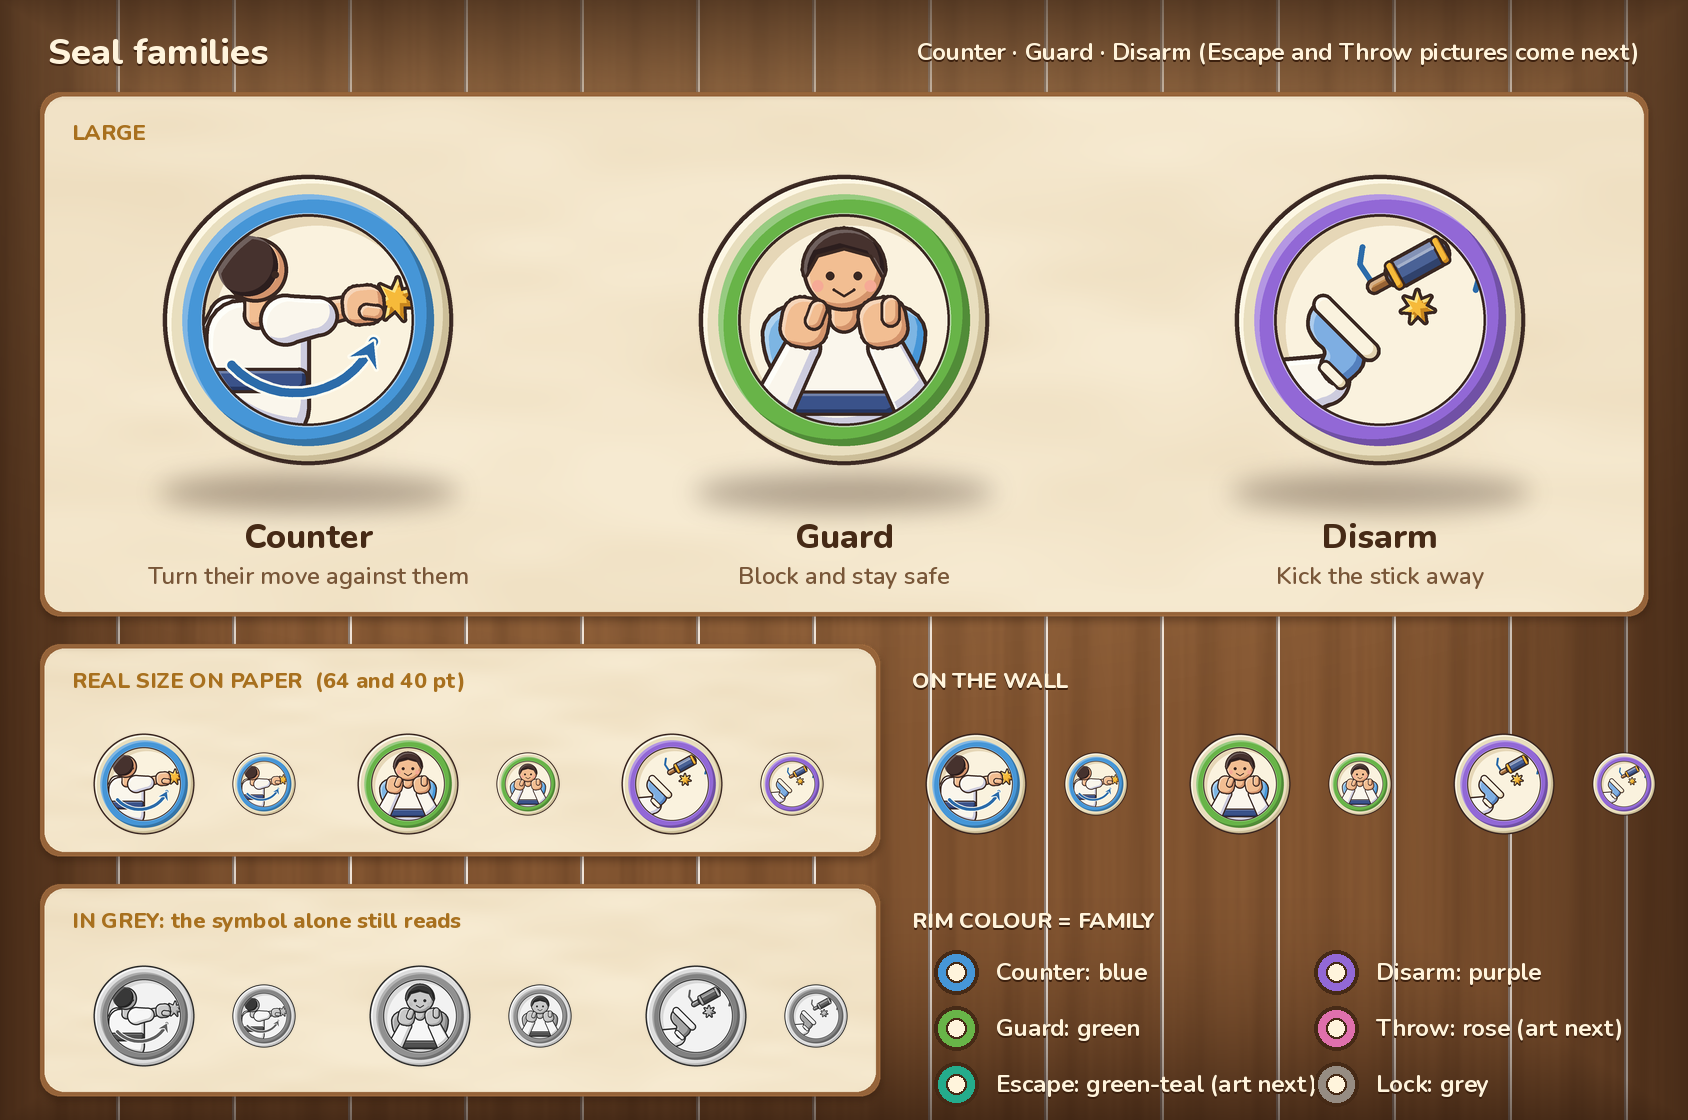
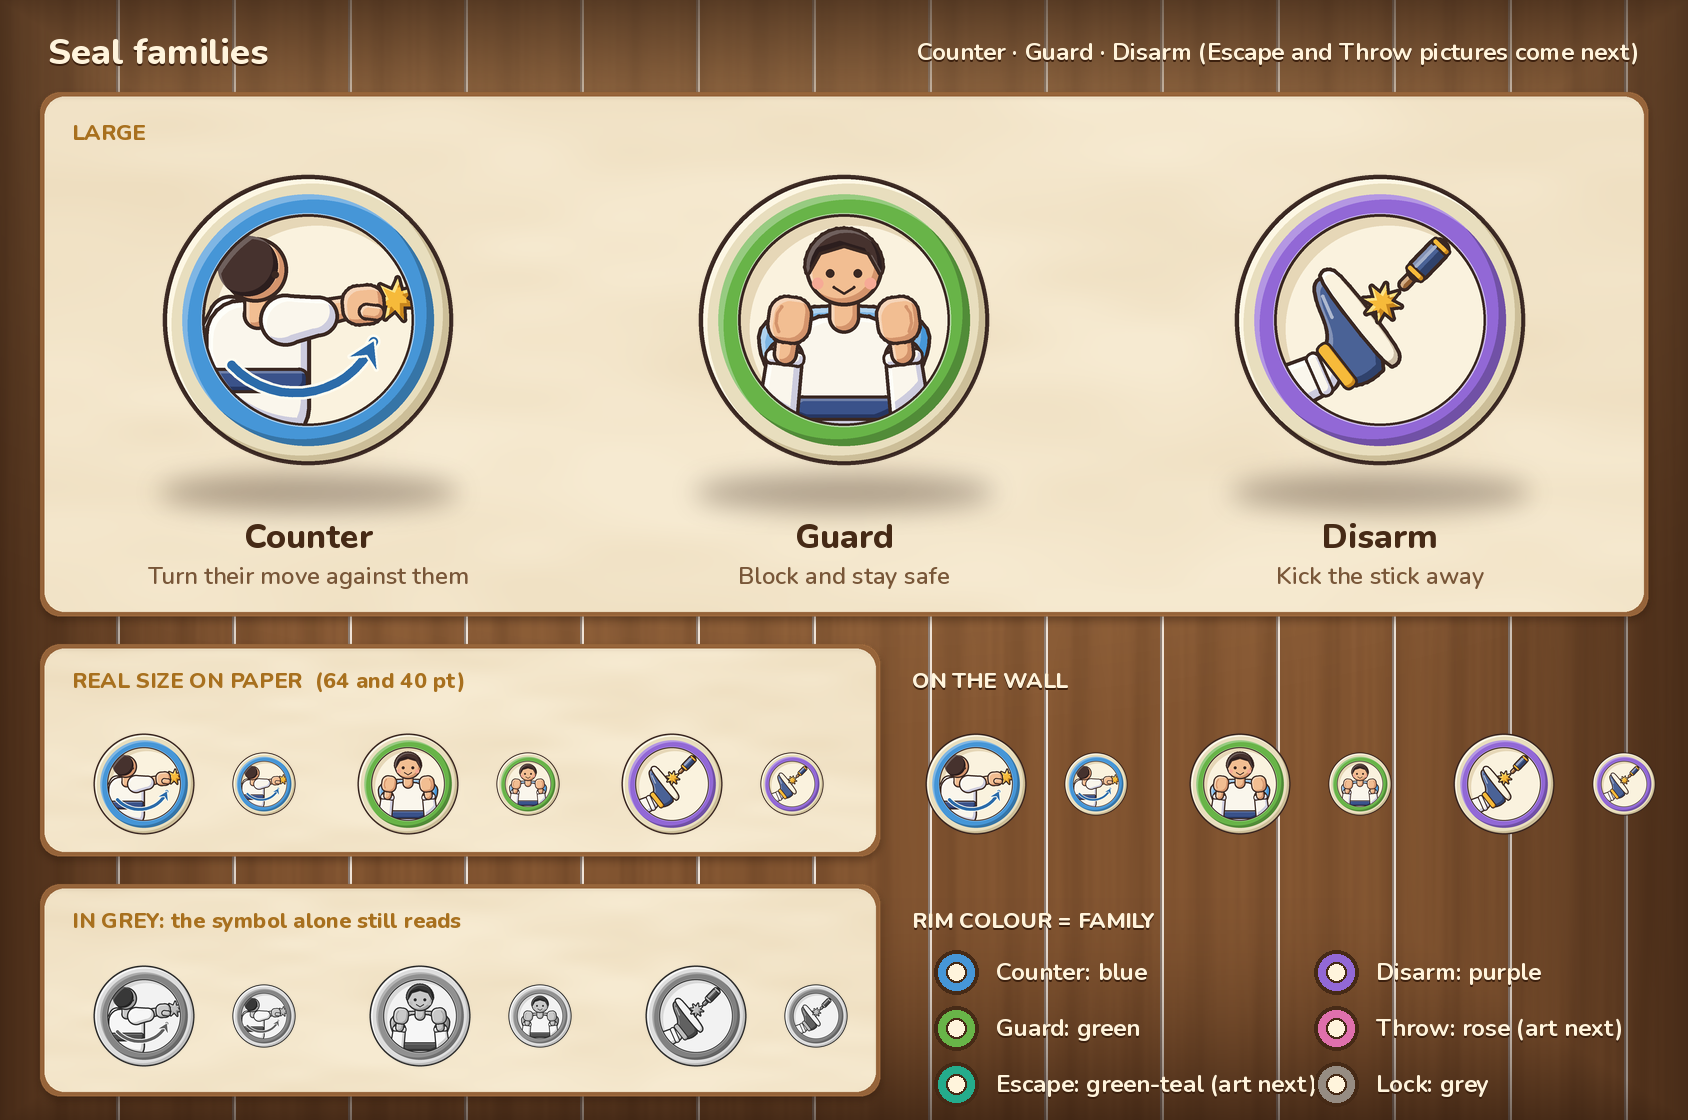
art: PB-07 v4 premium redo of Guard (clear wrist, closed mitten fist) and Disarm (straight shin, natural ankle, clear heel), before/after sheet 05

diff --git a/incoming-art/icons-slots/source/seal_icons.py b/incoming-art/icons-slots/source/seal_icons.py
@@ -115,28 +115,44 @@ def counter(rim=RIMS['counter']):
 
 
 # ------------------------------------------------------------------ GUARD: cross block
-def guard(rim=RIMS['guard']):
-    """v3: a friendly 'guard up' pose, front view: big smiling head, round gi body, BOTH forearms raised in front of the chest with chunky
-    mitten fists beside the cheeks (like a boxer's guard), plus a soft blue shield arc in front. No crossed arms, no finger lines."""
+def mitten_fist(a, cx, cy, s, ang, side=1, clip=None):
+    """v4 closed mitten fist seen from the back of the hand: ONE soft rounded square, knuckles leading along ang. The thumb is a single short crease
+    INSIDE the outline (no separate thumb shape, no bump on the edge, no finger lines), so there is nothing to count or misread: 0 fingers, 1 thumb crease."""
+    def L(pts):
+        return rot(pts, cx, cy, ang)
+    a.shape(poly(L(rrect_pts(0, 0, s, .9 * s, .36 * s))), SKIN, SKIN_S, lighten(SKIN, .4), ow=2.8, band=3.4, clip=clip)
+    a.line(L([(-.30 * s, side * .22 * s), (-.12 * s, side * .30 * s), (.12 * s, side * .30 * s), (.28 * s, side * .22 * s)]), SKIN_S, 2.6, clip=clip)
+
+
+def forearm_block(a, el, wr, fist_s, fist_ang, side, clip=None, r_el=14.5, r_cuff=12.5):
+    """v4 forearm: sleeve from the elbow to a cuff band, then a CLEAR skin wrist (narrower than both the cuff and the fist), then the mitten fist."""
+    ex, ey = el
+    wx, wy = wr
+    ang = math.atan2(wy - ey, wx - ex)
+    ux, uy = math.cos(ang), math.sin(ang)
+    sleeve(a, (ex, ey), (wx - ux * 8, wy - uy * 8), r_el, r_cuff, clip=clip)
+    a.shape(poly(rrect_pts(wx - ux * 8, wy - uy * 8, 9, 2 * r_cuff + 3, 3.5, ang)), GI, GI_S, (255, 255, 250), ow=2.4, band=2.4, clip=clip)   # cuff band
+    limb(a, (wx - ux * 5, wy - uy * 5), (wx + ux * 8, wy + uy * 8), 7.2, 7.6, clip=clip)                                                     # wrist
+    mitten_fist(a, wx + ux * (8 + fist_s * .42), wy + uy * (8 + fist_s * .42), fist_s, ang, side, clip=clip)
+
+
+def guard(rim=RIMS['guard'], fx=46, tilt=.12):
+    """v4 (premium pass): front view 'high guard' block. Smiling kid, gi torso, BOTH forearms raised beside the head: sleeve, cuff band, a clear wrist, then a
+    simple closed mitten fist (one soft rounded square, one thumb crease). A soft blue shield sits behind. No crossed arms, no separate fingers."""
     a = medallion(rim)
     c = face_clip()
-    a.shape(poly(chaikin([(64, 112), (192, 112), (190, 170), (128, 226), (66, 170)], 3)), lighten(BLUE, .3), BLUE, lighten(BLUE, .6), ow=3.0, band=5, clip=c)   # soft shield behind
-    gi_torso(a, 128, 128, 88, 100, clip=c, belt_y=194)
+    a.shape(poly(chaikin([(60, 118), (196, 118), (192, 172), (128, 228), (64, 172)], 3)), lighten(BLUE, .3), BLUE, lighten(BLUE, .6), ow=3.0, band=5, clip=c)   # soft shield behind
+    gi_torso(a, 128, 126, 78, 110, clip=c, belt_y=198)
     limb(a, (128, 108), (128, 126), 10, 10, clip=c)
-    # head: round, friendly, rosy cheeks
-    a.shape(circ(128, 88, 30), SKIN, SKIN_S, lighten(SKIN, .4), ow=3, band=4, clip=c)
-    hair = [(97, 92)] + arc_pts(128, 88, 32, math.pi, 2 * math.pi, 16) + [(159, 92), (150, 76), (128, 70), (106, 76)]
+    a.shape(circ(128, 86, 28), SKIN, SKIN_S, lighten(SKIN, .4), ow=3, band=4, clip=c)
+    hair = [(99, 90)] + arc_pts(128, 86, 30, math.pi, 2 * math.pi, 16) + [(157, 90), (148, 74), (128, 68), (108, 74)]
     a.shape(poly(hair), HAIR, HAIR_S, lighten(HAIR, .25), ow=2.6, band=3.5, clip=c)
     for dx in (-11, 11):
-        a.shape(circ(128 + dx, 93, 3.4), INKC, None, None, ow=0, clip=c)
-        a.shape(circ(128 + dx * 1.9, 101, 4.6), (246, 170, 150), None, None, ow=0, clip=c)
-    a.line([(120, 104), (128, 109), (136, 104)], INKC, 2.4, clip=c)
-    # two raised forearms: sleeve from the elbow up to the wrist, mitten fist at the chin
+        a.shape(circ(128 + dx, 91, 3.4), INKC, None, None, ow=0, clip=c)
+        a.shape(circ(128 + dx * 1.9, 99, 4.6), (246, 170, 150), None, None, ow=0, clip=c)
+    a.line([(120, 102), (128, 107), (136, 102)], INKC, 2.4, clip=c)
     for sgn in (-1, 1):
-        ex, ey = 128 + 56 * sgn, 196
-        wx, wy = 128 + 33 * sgn, 150
-        sleeve(a, (ex, ey), (wx, wy), 15, 12.5, clip=c)
-        fist(a, wx - 2 * sgn, wy - 20, 38, -math.pi / 2 - .18 * sgn, clip=c)
+        forearm_block(a, (128 + 54 * sgn, 214), (128 + fx * sgn, 150), 34, -math.pi / 2 + tilt * sgn, sgn, clip=c)
     return a.result()
 
 
@@ -178,16 +194,35 @@ def stick(a, cx, cy, ang, clip=None, k=1.0):
     a.line(L([(-4, -6), (34, -6)]), lighten(PADB, .5), 2.6, clip=clip)                                           # soft sheen
 
 
-def disarm(rim=RIMS['disarm']):
+def disarm(rim=RIMS['disarm'], ang_deg=-24, ankle=(92, 166), flex=-14, stickang=-.8, k=.56, sc=1.1, sdy=-4, sd=92):
+    """v4 (premium pass): a front snap kick that knocks a padded training stick away. Shin, ankle and shoe are drawn ONCE in a standing frame (shin straight up
+    from the ankle, toes right) and rotated as one rigid group, so the shin-to-foot line cannot kink. The gi cuff meets a short, natural strip of ankle, then the
+    shoe (blue foam upper with a gold collar, pale sole with a clear rounded heel). The foot is flexed about 90 degrees, as in a real front kick, with the SOLE
+    facing the stick. The burst on the sole is the hit, which is also the source of the glow. Nothing above the head. 0 toes (a toeless shoe)."""
     a = medallion(rim)
     c = face_clip()
-    # a padded training stick tumbling away, kicked out of play
-    a.line([(120, 96), (112, 84), (114, 70)], BLUE_S, 4.5, clip=c)
-    a.line([(204, 104), (208, 90), (200, 76)], BLUE_S, 4.5, clip=c)
-    stick(a, 148, 88, -.5, clip=c, k=.8)
-    a.shape(cap((36, 188), (84, 176), 26, 18), GI, GI_S, (255, 255, 250), ow=3.2, band=5, clip=c)
-    foot(a, 114, 164, -3 * math.pi / 4, clip=c, s=1.0)
-    burst(a, 158, 118, 6, 13, 7, .2, clip=c)
+    phi = math.radians(ang_deg - 90)
+
+    def G(pts, extra=0.0):
+        p = rot(pts, 0, 0, extra) if extra else pts
+        return rot([(x * sc, y * sc) for x, y in p], ankle[0], ankle[1], phi)
+    fl = math.radians(flex)
+    r0, r1, L_ = 21, 13.5, 120
+    a.shape(poly(G(rrect_pts(0, -4, 18.4, 18, 3))), SKIN, SKIN_S, lighten(SKIN, .4), ow=2.6, band=3.0, clip=c)   # ankle, tucked under cuff and collar
+    p0 = G([(0, -L_)])[0]
+    p1 = G([(0, -12)])[0]
+    a.shape(cap(p0, p1, r0 * sc, r1 * sc), GI, GI_S, (255, 255, 250), ow=3.0, band=4.8, clip=c)                     # gi shin
+    a.shape(poly(G(rrect_pts(0, -12, 2 * r1 + 3.5, 7, 3.2))), GI, GI_S, (255, 255, 250), ow=2.4, band=2.4, clip=c)  # cuff
+    upper = chaikin([(-16, 0), (14, 0), (17, 9), (27, 15), (45, 20), (56, 26), (56, 33), (-21, 33), (-23, 14)], 2)
+    a.shape(poly(G(upper, fl)), PADB, PADB_S, lighten(PADB, .35), ow=3.0, band=4.5, clip=c)
+    sole = chaikin([(-23, 31), (57, 31), (60, 38), (52, 44), (-16, 44), (-25, 39)], 2)
+    a.shape(poly(G(sole, fl)), CREAM, (206, 192, 168), (255, 255, 250), ow=3.0, band=3.2, clip=c)
+    a.shape(poly(G(rrect_pts(0, 2, 36, 8, 3), fl)), GOLD, GOLD_S, None, ow=2.2, band=2, clip=c)                      # tape collar
+    a.line(G([(30, 21), (46, 25)], fl), lighten(PADB, .55), 2.6, clip=c)                                              # sheen
+    bx, by = G([(16, 56)], fl)[0]
+    sx, sy = G([(16, sd)], fl)[0]
+    stick(a, sx, sy + sdy, stickang, clip=c, k=k)
+    burst(a, bx, by, 7, 15, 8, .2, clip=c)
     return a.result()
 
 

diff --git a/incoming-art/icons-slots/source/make_before_after_v4.py b/incoming-art/icons-slots/source/make_before_after_v4.py
@@ -1,0 +1,52 @@
+"""PB-07 v4 before/after sheet for Guard and Disarm (Jay: 'Disarm's ankle looks broken. Guard's hands look really weird'):
+the v3 icons (superseded/v3-icons) next to the v4 icons, large, zoomed on the hand and the foot, and at 40 / 30 pt (80 / 60 px at @2x), grey 30 pt, wall 30 pt.
+  python3 incoming-art/icons-slots/source/make_before_after_v4.py     (Pillow + numpy only)"""
+import os, sys, textwrap
+from PIL import Image, ImageDraw, ImageFont
+HERE = os.path.dirname(os.path.abspath(__file__)); ROOT = os.path.dirname(HERE); sys.path.insert(0, HERE)
+import seal_icons as si
+FONT = next((p for p in ("/usr/share/fonts/truetype/sand-box/google/Nunito/Nunito-VariableFont_wght.ttf", "/usr/share/fonts/truetype/dejavu/DejaVuSans-Bold.ttf") if os.path.exists(p)), None)
+def F(sz):
+    f = ImageFont.truetype(FONT, sz)
+    try: f.set_variation_by_name('ExtraBold')
+    except Exception: pass
+    return f
+INK, SOFT, PAPER, WALL = (70, 42, 22), (120, 86, 56), (250, 242, 222), (110, 74, 46)
+# (name, label, note, zoom box on the 1024 px icon for the hand / foot close-up)
+ROWS = [('guard', 'Guard', 'forearm block: clear wrist, one closed mitten fist', (230, 400, 520, 750)),
+        ('disarm', 'Disarm', 'front kick: straight shin, natural ankle, clear heel', (230, 330, 770, 870))]
+def pad(im, px):
+    inner = int(round(px * 112 / 128)); out = Image.new('RGBA', (px, px), (0, 0, 0, 0))
+    out.alpha_composite(im.resize((inner, inner), Image.LANCZOS), ((px - inner) // 2, (px - inner) // 2)); return out
+def grey(im):
+    g = im.convert('LA').convert('RGBA'); g.putalpha(im.getchannel('A')); return g
+def zoom(im, box, side=270):
+    c = im.crop(box); r = side / max(c.size); c = c.resize((max(1, int(c.width * r)), max(1, int(c.height * r))), Image.LANCZOS)
+    out = Image.new('RGBA', (side, side), (255, 252, 244, 255)); out.alpha_composite(c, ((side - c.width) // 2, (side - c.height) // 2)); return out
+BIG, RH, W = 270, 320, 2040
+sheet = Image.new('RGBA', (W, 110 + RH * len(ROWS)), PAPER); d = ImageDraw.Draw(sheet)
+d.text((24, 16), 'Guard and Disarm: v3 (old) vs v4 (new). Clean wrist and closed mitten fist; straight shin into a natural ankle with a clear heel', font=F(30), fill=INK)
+for x, k in ((280, 'LARGE: old'), (570, 'LARGE: new'), (880, 'close-up: old'), (1170, 'close-up: new'), (1470, '30 pt: old / new'), (1690, '40 pt: old / new'), (1900, 'grey 30 pt')):
+    d.text((x, 64), k, font=F(22), fill=SOFT)
+for i, (n, nm, note, box) in enumerate(ROWS):
+    y = 110 + i * RH
+    if i % 2: d.rectangle([0, y, W, y + RH], fill=(244, 234, 208))
+    d.text((24, y + 100), nm, font=F(30), fill=INK)
+    for li, ln in enumerate(textwrap.wrap(note, 26)):
+        d.text((24, y + 142 + li * 24), ln, font=F(18), fill=SOFT)
+    old = Image.open(os.path.join(ROOT, 'superseded', 'v3-icons', n + '.png')).convert('RGBA'); new = si.ALL[n]()
+    sheet.alpha_composite(pad(old, BIG), (280, y + 14)); sheet.alpha_composite(pad(new, BIG), (570, y + 14))
+    sheet.alpha_composite(zoom(old, box), (880, y + 14)); sheet.alpha_composite(zoom(new, box), (1170, y + 14))
+    cy = y + RH // 2 - 40
+    for x0, sz, g in ((1470, 60, False), (1690, 80, False)):
+        for j, im in enumerate((old, new)):
+            sheet.alpha_composite(pad(im, sz), (x0 + j * (sz + 16), cy + (80 - sz) // 2))
+    for j, im in enumerate((old, new)):
+        sheet.alpha_composite(pad(grey(im), 60), (1900 + j * 76 - 0, cy + 10))
+    d.rectangle([1470, cy + 100, 1690, cy + 190], fill=WALL)
+    for j, im in enumerate((old, new)):
+        sheet.alpha_composite(pad(im, 60), (1490 + j * 76, cy + 112))
+os.makedirs(os.path.join(ROOT, 'preview'), exist_ok=True)
+out = sheet.convert('RGB'); out.save(os.path.join(ROOT, 'preview', '05-before-after-v3-v4@2x.png'))
+out.resize((W // 2, sheet.height // 2), Image.LANCZOS).save(os.path.join(ROOT, 'preview', '05-before-after-v3-v4.png'))
+print('ok', out.size)

diff --git a/incoming-art/icons-slots/source/make_before_after.py b/incoming-art/icons-slots/source/make_before_after.py
@@ -31,7 +31,7 @@ for i, (n, nm, note) in enumerate(ROWS):
     d.text((24, y + 100), nm, font=F(30), fill=INK)
     for li, ln in enumerate((note[:26], note[26:52])):
         d.text((24, y + 142 + li * 24), ln, font=F(18), fill=SOFT)
-    old = Image.open(os.path.join(ROOT, 'superseded', 'v2-icons', n + '.png')).convert('RGBA'); new = si.ALL[n]()
+    old = Image.open(os.path.join(ROOT, 'superseded', 'v2-icons', n + '.png')).convert('RGBA'); new = (Image.open(os.path.join(ROOT, 'superseded', 'v3-icons', n + '.png')).convert('RGBA') if n in ('guard', 'disarm') else si.ALL[n]())   # Guard and Disarm moved on to v4 (sheet 05)
     sheet.alpha_composite(pad(old, BIG), (280, y + 14)); sheet.alpha_composite(pad(new, BIG), (570, y + 14))
     cy = y + RH // 2 - 30
     for x0, sz, g in ((880, 60, False), (1090, 80, False), (1330, 60, True)):

diff --git a/incoming-art/icons-slots/README.md b/incoming-art/icons-slots/README.md
@@ -1,8 +1,15 @@
 # Seal families (PB-07 samples)
 
-**Status: samples only, v3 (friendlier hands and feet, Guard redrawn).** Three preview sheets for Jay to OK before the full set is drawn. No game files are touched. No sprites exported yet: Jay approves first.
+**Status: samples only, v4 (Guard and Disarm redrawn to a premium bar; see below).** Three preview sheets for Jay to OK before the full set is drawn. No game files are touched. No sprites exported yet: Jay approves first.
 
 The folder is `incoming-art/icons-slots/`, the path the PB-07 spec names (it was moved from `incoming-art/seal-families/` with `git mv`).
+
+**What changed in v4 (Jay: "Disarm's ankle looks broken. Guard's hands look really weird. Good enough is not OK, we want premium"):** only Guard and Disarm were redrawn. See `preview/05-before-after-v3-v4.png` (old and new, large, zoomed on the hand and the foot, at 40 and 30 pt, grey and on the wall). The v3 versions are kept in `superseded/v3-icons/`.
+- **Guard** is a front-view high-guard block. Each forearm is a sleeve, then a cuff band, then a **clear skin wrist** (narrower than the cuff and the fist), then ONE closed mitten fist: a soft rounded square with a single thumb crease drawn inside the outline. There is no separate thumb shape, nothing sticks out of the silhouette, and no finger lines. The old fists were big blobs with a thumb bump that read as thumbs-up, and the sleeve ran straight into them.
+- **Disarm** is a real front snap kick. Shin, ankle and shoe are drawn once in a standing frame and rotated together, so the shin runs straight into the ankle and cannot kink. The foot is flexed about 90 degrees as in a real front kick, with the sole facing the stick. The shoe is a blue foam sparring bootie with a gold tape collar and a pale sole with a clear round heel. The old shoe was a disjointed boot with an odd collar and a disconnected leg. The burst on the sole is the hit, the source of the glow. The padded stick tumbles away.
+- **Digit check:** Guard shows 2 fists. Each has 0 visible fingers and 0 extra thumb shapes (1 thumb crease inside the outline). Disarm shows 0 fingers and 0 toes (toeless shoe, one foot). Checked large, in a zoom of each hand and foot, and at 30 pt.
+- **30 pt check:** Guard reads as a kid with two raised fists. Disarm reads as a kick on a stick, a shoe sole with a burst and the stick flying away. Both also hold up in grey and on the wall. Sheet 04 is unchanged and now reads the v3 Guard and Disarm from `superseded/v3-icons/`.
+- No sprites exported; Jay approves first. Strike and Jumping Spins still use the v3 shoe, and Counter the v3 fist. Say so if they should match the new look.
 
 **What changed in v3 (Jay: the medallions looked rough, a foot had 6 toes, Guard looked like a nightmare):** hands and feet are now clean and chunky in the Archero / Pokemon spirit. Fists are one **mitten** shape with a thumb and no finger lines. Feet are **shoes** (blue upper, cream sole and collar) with no separate toes, and the Kata footprints have no toes either. **Guard is redrawn from scratch** as a friendly "guard up" pose: smiling kid, both mitten fists at the chin, forearms in front of the chest, a soft blue shield behind. The crossed-arms pose is gone. See `preview/04-before-after-v2-v3.png` (old and new, large and at 30 pt). The old v2 icons are kept in `superseded/v2-icons/`.
 
@@ -18,6 +25,7 @@ PB-07 (in `drafts/planning/R-PROGRESSION-BETA.md`) replaces G2B-03. It asks for 
 | b | `preview/02-lock-and-slot-glyphs.png` (+ `@2x`) | Lock, Strike glyph, Kata glyph, empty Seal slot. Large, in a mock slot row, 48 and 32 pt, in grey |
 | c | `preview/03-jumping-spins.png` (+ `@2x`) | Jumping Spins. Large, next to the plain Strike glyph, 64, 48 and 32 pt on paper, grey and wall |
 | d | `preview/04-before-after-v2-v3.png` (+ `@2x`) | Old v2 next to new v3 for every icon: large, 30 pt, 40 pt, grey 30 pt and on the wall at 30 pt |
+| e | `preview/05-before-after-v3-v4.png` (+ `@2x`) | v4: Guard and Disarm, old v3 next to new v4: large, close-up of the hand and foot, 40 pt, 30 pt, grey and wall |
 
 The `@2x` files are the true pixels. The 1x files are the same sheets at phone points.
 
@@ -36,4 +44,4 @@ python3 incoming-art/icons-slots/source/build_seal_families.py
 ```
 Needs Pillow and numpy only. **It also needs PR #412 merged**, because it imports `incoming-art/tools/board_ui_kit.py` (the Board look). This PR does not copy that file, so it cannot clash with #412.
 
-Files: `source/toon.py` (drawing kit), `source/seal_icons.py` (the icons), `source/build_seal_families.py` (the three sheets), `source/make_before_after.py` (sheet 4; Pillow only, no #412 needed).
+Files: `source/toon.py` (drawing kit), `source/seal_icons.py` (the icons), `source/build_seal_families.py` (the three sheets), `source/make_before_after.py` (sheet 4; Pillow only, no #412 needed), `source/make_before_after_v4.py` (sheet 5; Pillow only).

diff --git a/incoming-art/icons-slots/DELIVERY_NOTE.md b/incoming-art/icons-slots/DELIVERY_NOTE.md
@@ -1,6 +1,8 @@
-# Delivery Note: Seal families (PB-07 samples, v3)
+# Delivery Note: Seal families (PB-07 samples, v4)
 
 - **ITEM:** PB-07 slot art, samples only: family medallions (Counter, Guard, Disarm shown), Lock, Strike and Kata glyphs, empty slot, Jumping Spins.
+- **WHAT (v4, Guard and Disarm only):** Jay rejected them ("Disarm's ankle looks broken. Guard's hands look really weird. Good enough is not OK, we want premium"). Both are redrawn. **Guard:** a high-guard block with sleeve, cuff band, a clear wrist and ONE closed mitten fist per arm (one thumb crease inside the outline, no finger lines, nothing sticking out). **Disarm:** a front snap kick: straight shin into a natural ankle, a flexed foot with the sole on the padded stick, a shoe with a clear round heel, a burst on the sole as the glow source. Digit check: 2 fists with 0 fingers; 0 toes. Checked large, zoomed and at 30 pt, plus grey and wall. Before/after: `preview/05-before-after-v3-v4.png`. Old v3 icons: `superseded/v3-icons/`. Several attempts were made (a bare foot in line with the shin, a foam bootie in line, a flexed shoe); the bare feet read as blobs, so the flexed shoe is kept. Sheet 01 is regenerated with the new icons. No sprites exported.
+- **Second pass (v4):** see the line above. Not changed: Counter, Strike, Jumping Spins, Kata, Lock, empty slot.
 - **WHAT (v3, from Jay's feedback):** the medallions looked rough (a foot with 6 toes; Guard "looks like something in a nightmare"). Fixed: fists are clean mitten shapes with a thumb (no finger lines); feet are chunky shoes with no separate toes (also the Kata footprints); **Guard is redrawn** as a friendly guard-up pose (smiling kid, fists at the chin, soft shield). Every icon re-checked for anatomy counts and at 30 pt. New sheet `preview/04-before-after-v2-v3.png` shows old vs new, large and at 30 pt. Old icons are in `superseded/v2-icons/`. Counter, Disarm, Strike, Jumping Spins and Kata were touched by the hand/foot change; Lock and the empty slot are unchanged.
 - **WHAT (earlier):** 3 preview sheets (large and real size, paper, wall and grey) in `preview/`, plus the build scripts. No sprites or game files yet (no export until Jay approves). Escape and Throw pictures are not drawn yet; their rim colours are shown in the key on sheet 1.
   Manager answers applied in v2:
@@ -10,6 +12,7 @@
   4. Kept as they were: the Counter back fist, the Strike and Kata glyphs, the Jumping Spins ripples, the Lock and empty-slot look.
 - **WHY:** The manager OK'd the family look with these changes. A padded stick is safe for ages 6+ and still reads as "a weapon kicked away".
 - **DECIDE:**
+  00. Do the v4 Guard (clear wrist, closed fist) and Disarm (straight shin, natural ankle, clear heel) now meet the premium bar? Strike and Jumping Spins still use the v3 shoe, and Counter the v3 fist. Should they match the new look?
   0. Do the new Guard (guard-up, mitten fists, shield) and the shoe feet look friendly enough? Tell me what still feels off.
   1. Guard's rim moved to leaf green (not asked for). It was needed to keep Escape and Guard apart. OK, or keep the old green and nudge Escape bluer?
   2. Text in the mock now says "Kick the stick away". The game text in `drafts/content/abilities/seal-families-text.json` still says "Kick the Weapon" (fine). Any other words that say "knife"?
